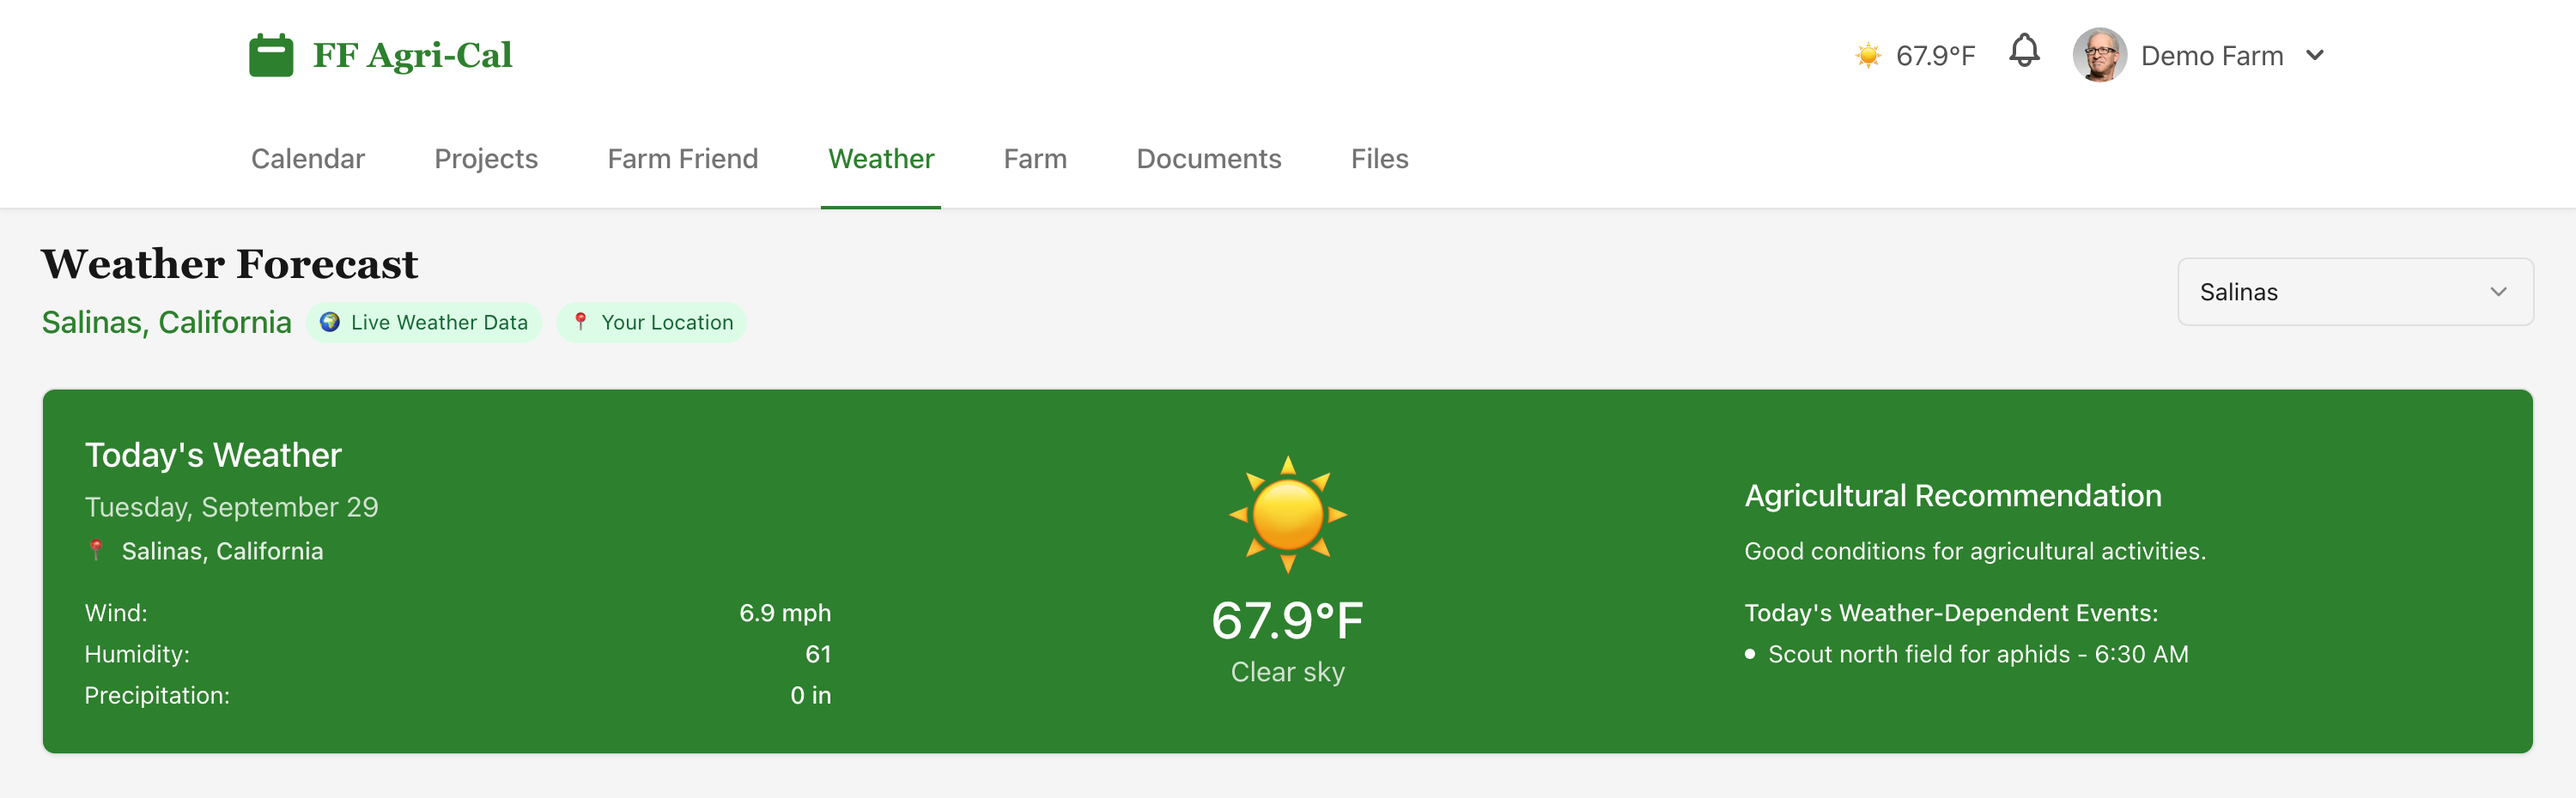
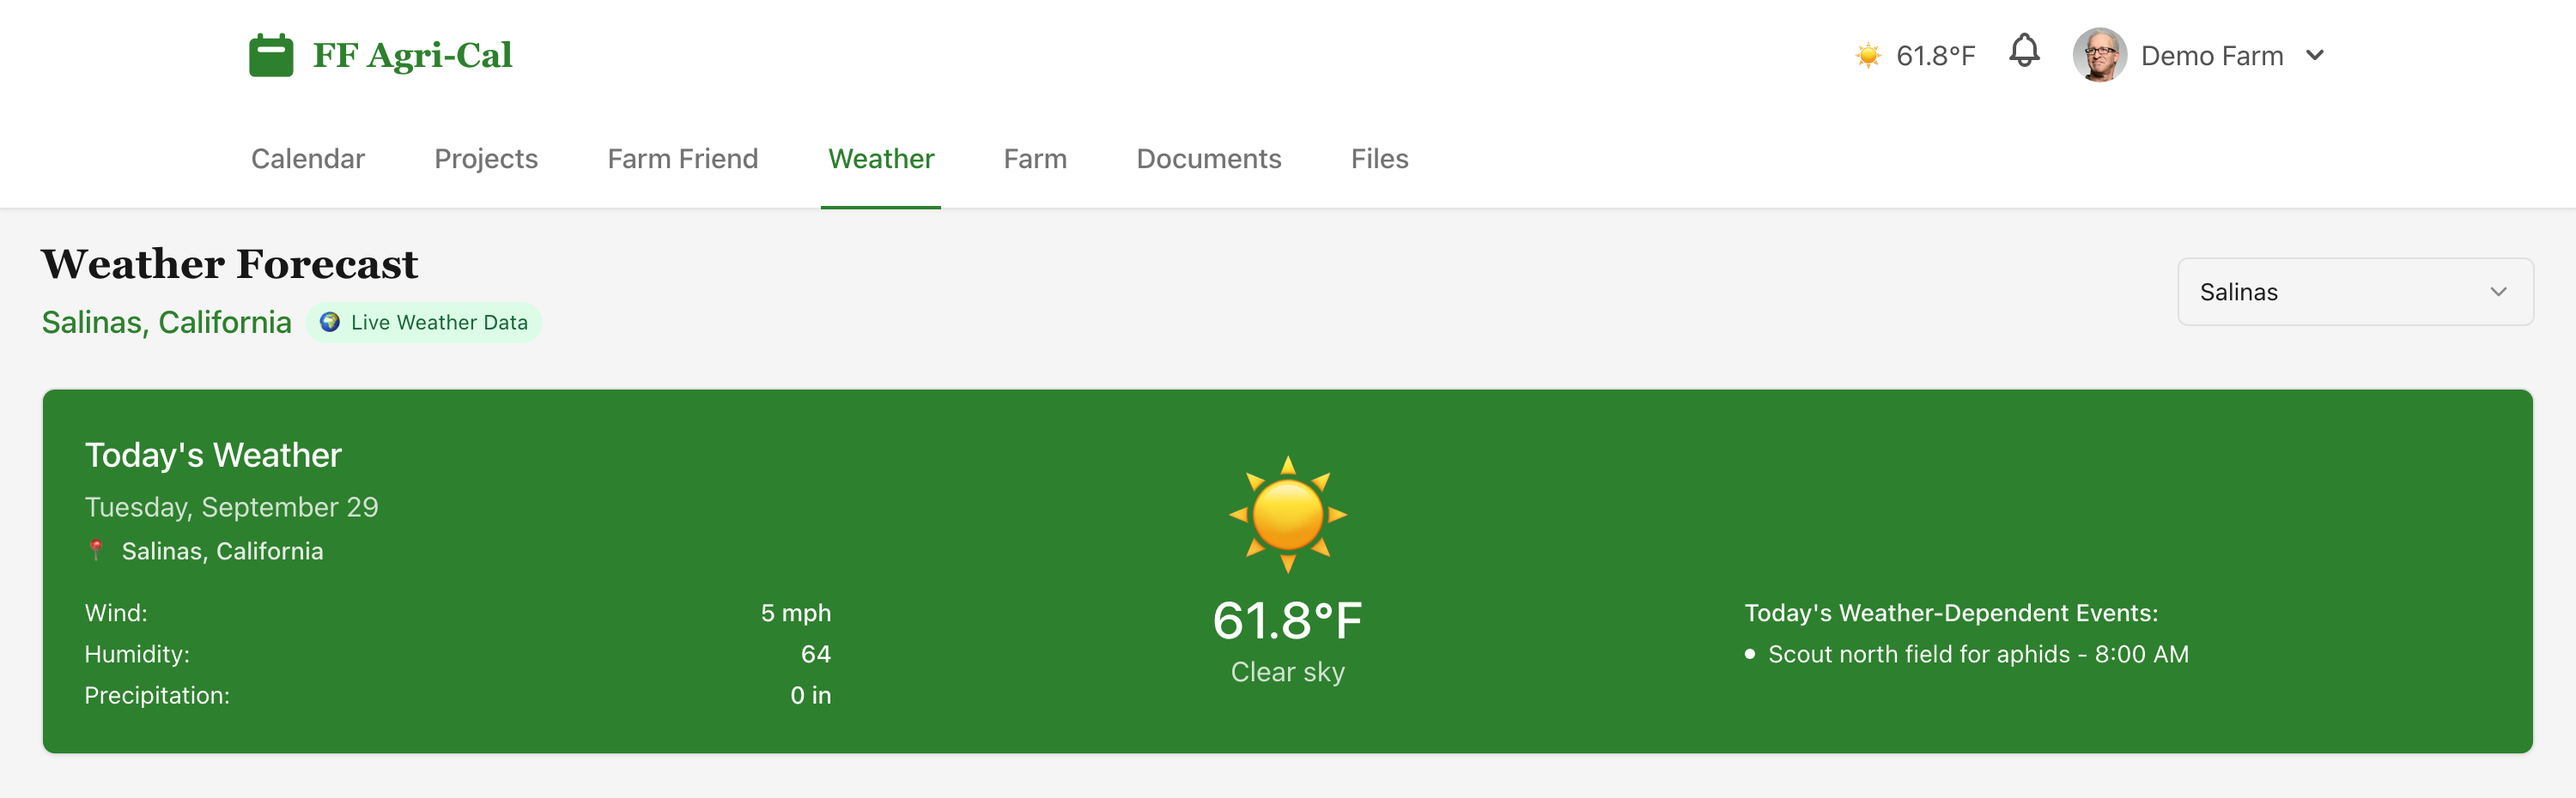
docs: revise farmer front wording and refresh weather-page capture

diff --git a/README.md b/README.md
@@ -4,11 +4,9 @@
 
 # FF Agri-Cal
 
-Plan the season. The forecast does the watching.
+You put the field work on the calendar. The forecast sits beside it, and the weather page names the jobs that weather can move.
 
-You put the field work on the calendar. The forecast for your place sits beside it, and the weather page shows which of today's jobs depend on it.
-
-![The weather page for one place: today's reading, what it means for the work, and the job that depends on it](docs/readme/app.png)
+![The weather page for the place you set: today's reading, and the job that depends on it](docs/readme/app.png)
 
 ## What you can do
 
@@ -43,7 +41,6 @@ To look around without a database, set `MEM_STORAGE=1` in `.env` and skip `db:pu
 ## License
 
 MIT — see [LICENSE](LICENSE).
-
 ## Developer reference
 
 ## `> PROJECT_OVERVIEW`
